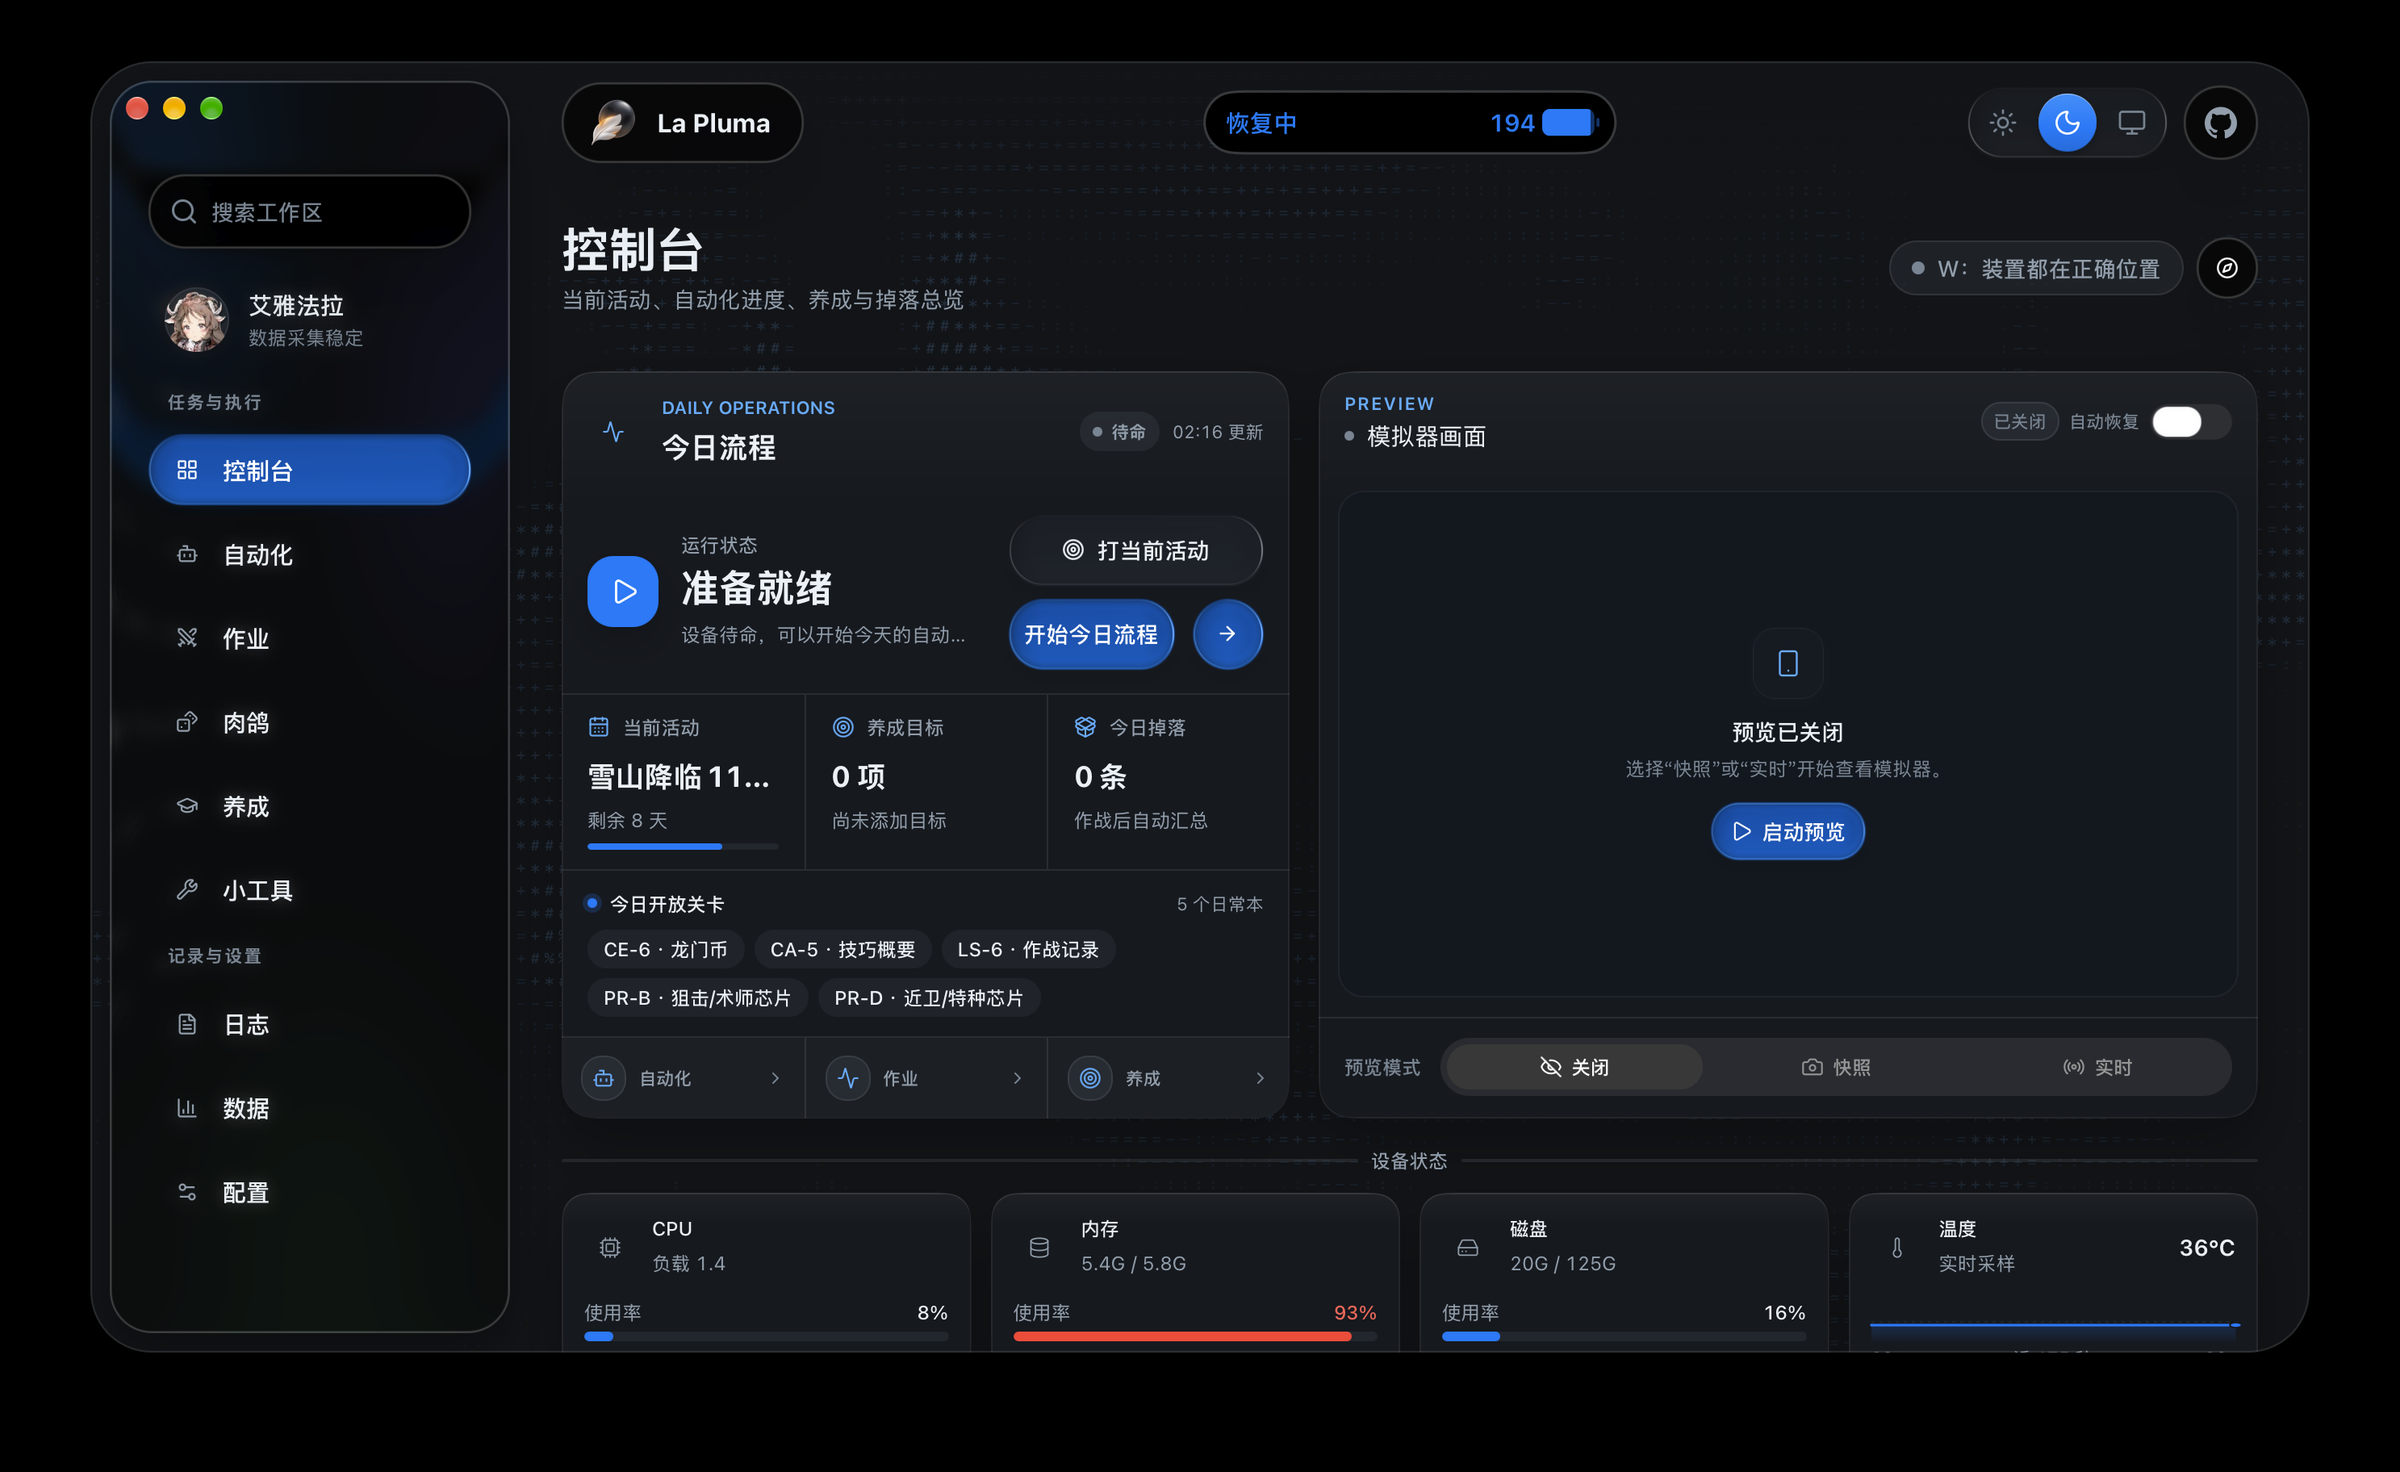
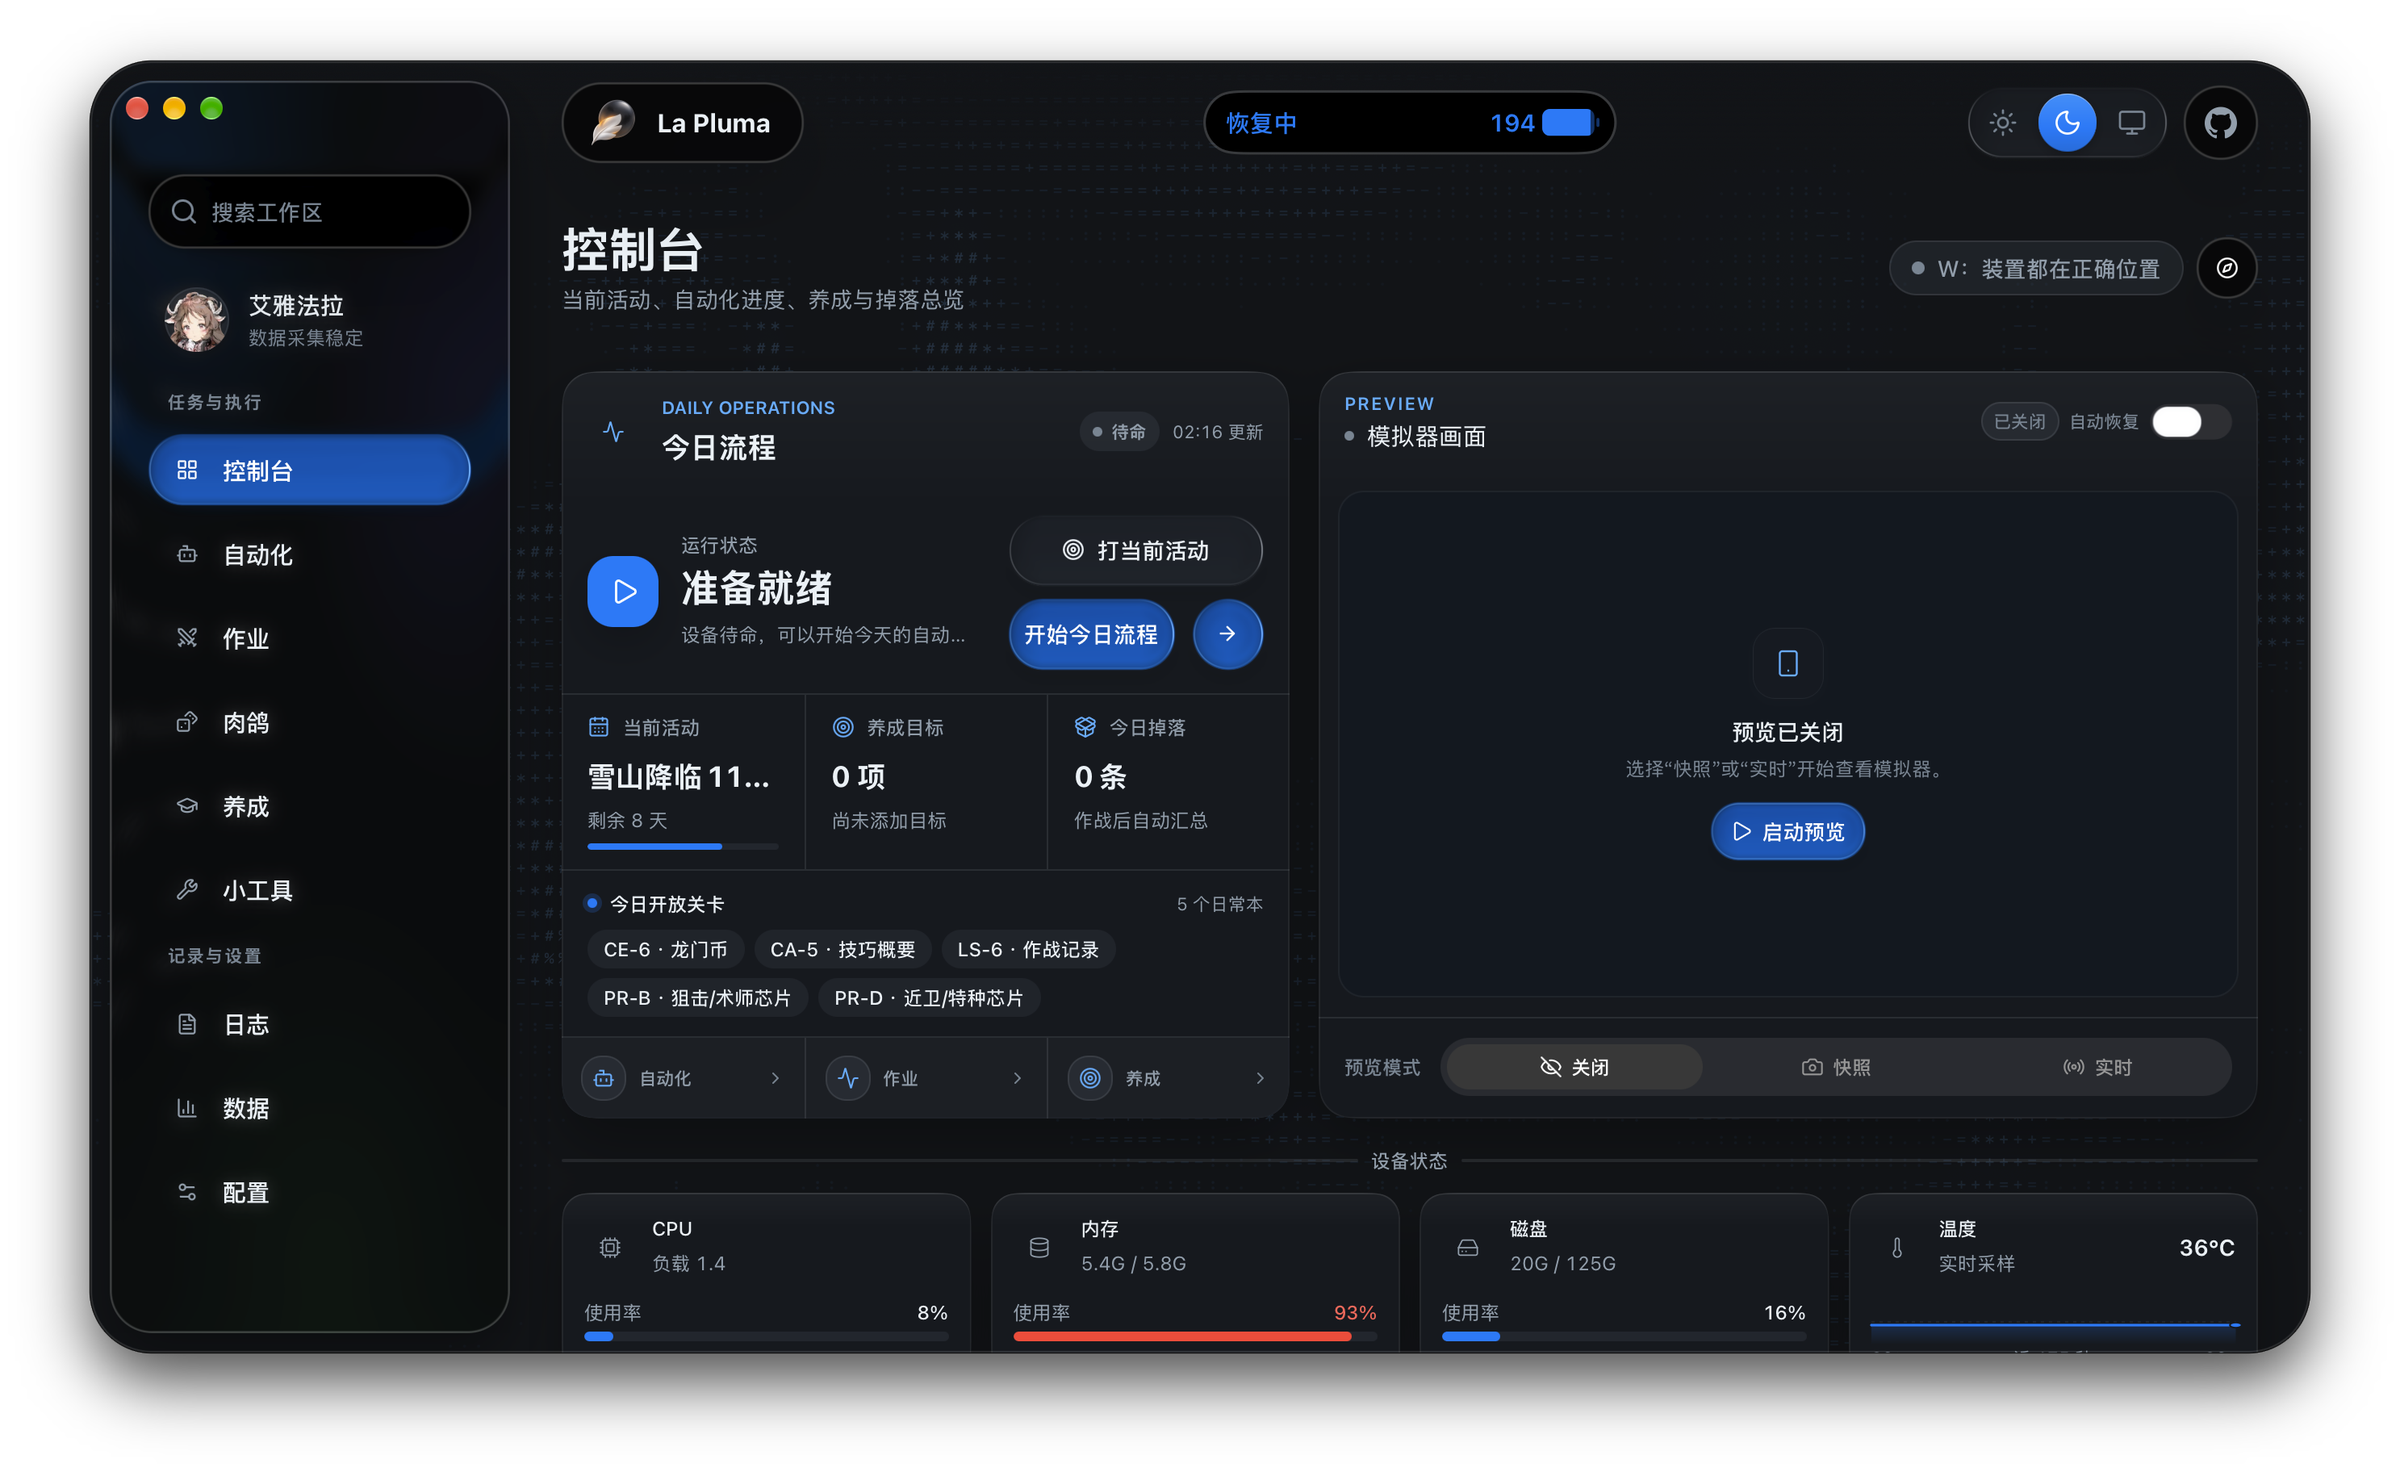
docs(readme): keep the screenshots' transparency and stack them
The hero PNGs carry an alpha channel around the window's rounded corners.
Resizing through an RGB conversion flattened it to black, which drew a black
frame the captures never had; the images now keep RGBA end to end.

Both screenshot pairs are stacked instead of sitting two-up, so each capture
keeps the full width it was taken at.

Changed region(s): [[0.0, 0.0, 1.0, 1.0]]

diff --git a/README.zh.md b/README.zh.md
@@ -1,6 +1,7 @@
 <p align="center">
-  <img src="screenshots/hero-light.png" alt="La Pluma 亮色主题下的控制台" width="49%">
-  <img src="screenshots/hero-dark.png" alt="La Pluma 暗色主题下的控制台" width="49%">
+  <img src="screenshots/hero-light.png" alt="La Pluma 亮色主题下的控制台" width="100%">
+  <br />
+  <img src="screenshots/hero-dark.png" alt="La Pluma 暗色主题下的控制台" width="100%">
 </p>
 
 <h1 align="center">La Pluma</h1>
@@ -102,8 +103,9 @@ La Pluma 是一个自托管的《明日方舟》自动化 Web 控制台。它把
 ## 界面截图
 
 <p align="center">
-  <img src="screenshots/automation-light.png" alt="亮色主题下的自动化工作台" width="49%">
-  <img src="screenshots/automation-dark.png" alt="暗色主题下的自动化工作台" width="49%">
+  <img src="screenshots/automation-light.png" alt="亮色主题下的自动化工作台" width="92%">
+  <br />
+  <img src="screenshots/automation-dark.png" alt="暗色主题下的自动化工作台" width="92%">
   <br />
   <em>自动化工作台在两种主题下的界面</em>
 </p>

diff --git a/README.md b/README.md
@@ -1,6 +1,7 @@
 <p align="center">
-  <img src="screenshots/hero-light.png" alt="La Pluma in the light theme" width="49%">
-  <img src="screenshots/hero-dark.png" alt="La Pluma in the dark theme" width="49%">
+  <img src="screenshots/hero-light.png" alt="La Pluma in the light theme" width="100%">
+  <br />
+  <img src="screenshots/hero-dark.png" alt="La Pluma in the dark theme" width="100%">
 </p>
 
 <h1 align="center">La Pluma</h1>
@@ -103,8 +104,9 @@ The project is named after La Pluma, the five-star Guard in Arknights.
 ## Screenshots
 
 <p align="center">
-  <img src="screenshots/automation-light.png" alt="Automation workspace in the light theme" width="49%">
-  <img src="screenshots/automation-dark.png" alt="Automation workspace in the dark theme" width="49%">
+  <img src="screenshots/automation-light.png" alt="Automation workspace in the light theme" width="92%">
+  <br />
+  <img src="screenshots/automation-dark.png" alt="Automation workspace in the dark theme" width="92%">
   <br />
   <em>The automation workspace in both themes</em>
 </p>
